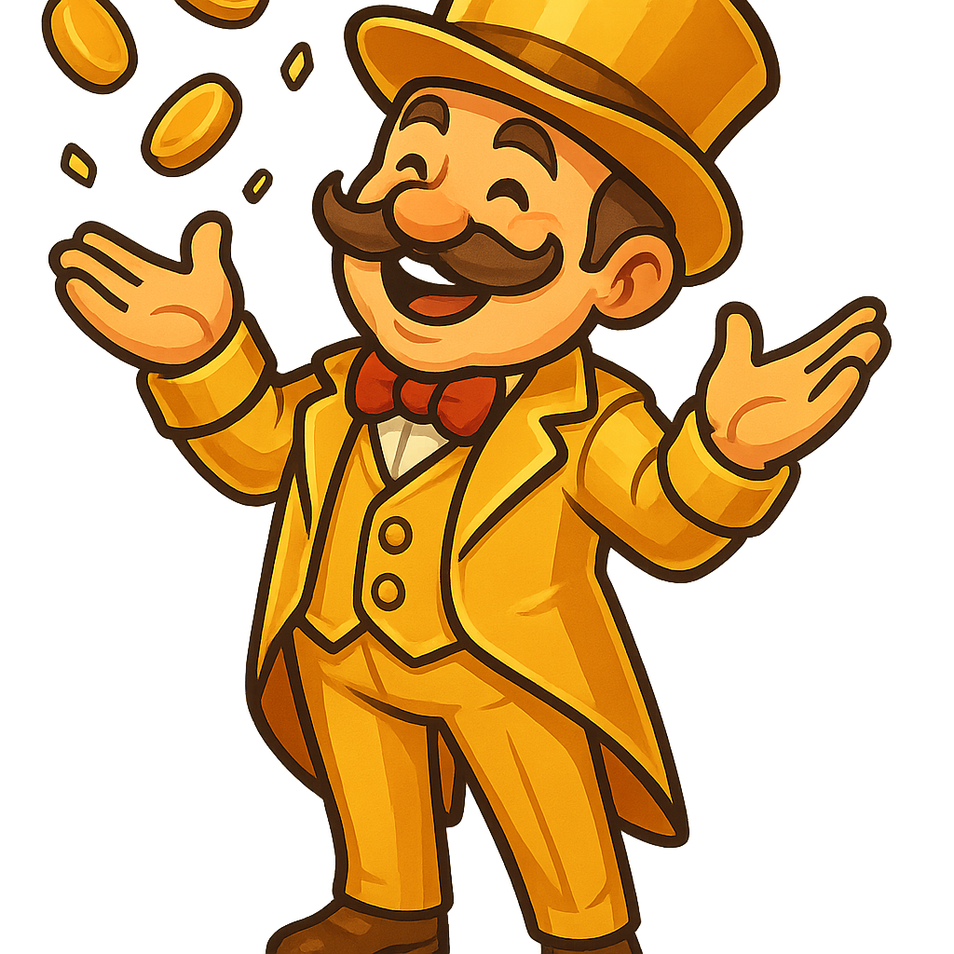
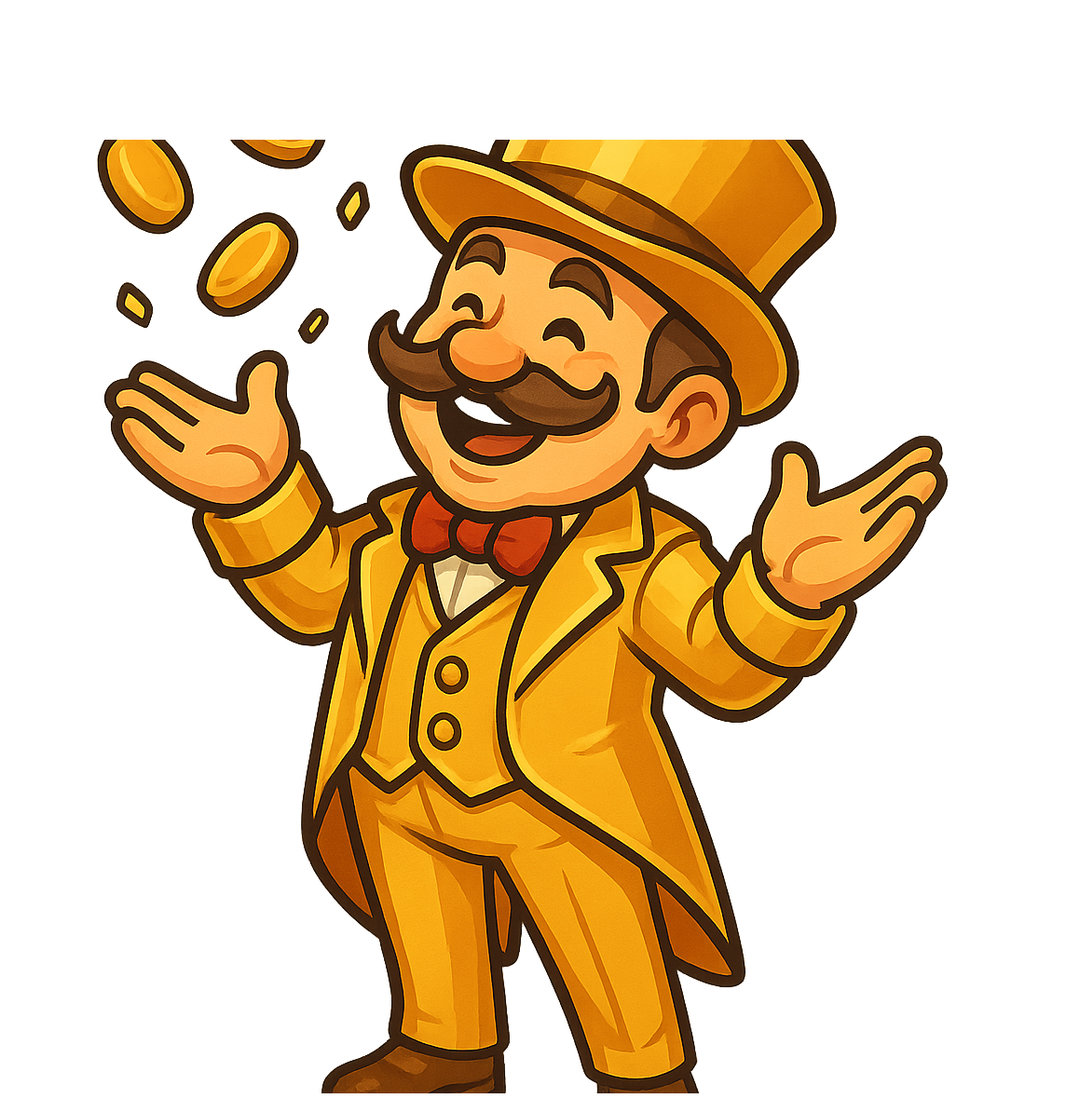
Sailing feedback batch: merchant clip, combo/cap, pet-on-10th, auto-scan, relic reveal
- Merchant sprite: padded the art with transparent headroom so his hat can never clip; bumped
  the on-screen size to compensate.
- Coin game: tuned coin values + combo (max 2x) so a great run lands ~150 naturally instead of
  showing 300 then clamping to 150; raised the safety cap to 200 so the score you see == earned.
- Pet: no longer tied to a "perfect" run (too easy). The exclusive elephant now unlocks on your
  10th meeting with the merchant (mig197 merchant_encounters counter), celebrated up front.
- Digging is fully automatic now: while you have scans (~3), a tap SCANS; once they're gone, a
  tap DIGS. No mode/button to select. (Tool buttons remain for now — tools-as-procs rework next.)
- On finishing a dig, the recap shows a mini-map of WHERE the relic was (dug vs missed) so you
  learn how the heat maps to the buried shape.

Claude-Session: https://claude.ai/code/session_01PcZ5ztkdGCXkPUtyGfLyLN

diff --git a/src/components/SailingClient.js b/src/components/SailingClient.js
@@ -187,7 +187,6 @@ export default function SailingClient({ initial, hero, pet }) {
     const [formUnlock, setFormUnlock] = useState(null); // the milestone form just unlocked (every 10 levels)
     const [inspectForm, setInspectForm] = useState(null); // a boat form being inspected (locked or not)
     const [selectedTool, setSelectedTool] = useState(null); // an area-clear dig tool armed to tap a tile
-    const [scanArmed, setScanArmed] = useState(false); // Dig is the default; arming Scan makes the NEXT tap a one-shot scan
     const [sensePing, setSensePing] = useState(null); // { r, c, k } — the tile currently rippling a scan pulse
     const [celebrate, setCelebrate] = useState(null); // "arrive" while the Land-ho banner shows
     const [chunk, setChunk] = useState(null); // { r, c, k } — the tile currently spraying rock chunks
@@ -407,12 +406,11 @@ export default function SailingClient({ initial, hero, pet }) {
         act("dig", { r, c });
     }, [act]);
 
-    // Scan a tile: fire a sonar ripple instantly (tactile), disarm the one-shot, then ask the server for its heat.
+    // Scan a tile: fire a sonar ripple instantly (tactile), then ask the server for its heat.
     const senseTile = useCallback((r, c) => {
         const k = (chunkId.current += 1);
         setSensePing({ r, c, k });
         setTimeout(() => setSensePing((p) => (p?.k === k ? null : p)), 600);
-        setScanArmed(false);
         act("sense", { r, c });
     }, [act]);
 
@@ -508,42 +506,40 @@ export default function SailingClient({ initial, hero, pet }) {
                             <span className="dig-stam" title="Digs remaining">⛏ {dig.stamina}/{dig.maxStamina}</span>
                         </div>
                         <div className="dig-stambar"><span style={{ width: `${Math.round((dig.stamina / Math.max(1, dig.maxStamina)) * 100)}%` }} /></div>
-                        {/* Actions — DIG is the default (just tap dirt). SCAN is a one-shot "feel it out" probe.
-                            Tools stay armed so you can keep clearing without re-selecting. */}
-                        <div className="dig-actions">
-                            <button type="button" className={`dig-scan-btn${scanArmed ? " is-armed" : ""}`}
-                                disabled={busy || (dig.senses ?? 0) <= 0 || scanArmed}
-                                onClick={() => { setScanArmed(true); setSelectedTool(null); }}>
-                                🔍 Scan <span className="dig-scan-n">{dig.senses ?? 0}</span>
-                            </button>
-                            {(dig.tools || []).map((t) => (
-                                <button key={t.id} type="button"
-                                    className={`dig-tool-btn${selectedTool?.id === t.id ? " is-armed" : ""}`}
-                                    disabled={busy || dig.stamina < 1}
-                                    onClick={() => { setSelectedTool(selectedTool?.id === t.id ? null : t); setScanArmed(false); }}
-                                    title={`${t.name}: clears ${t.cols}×${t.rows}${t.layers > 1 ? `, ${t.layers} layers` : ""} for ${t.stamina} stamina`}>
-                                    {t.emoji} {t.name} <span className="dig-tool-cost">{t.stamina}</span>
-                                </button>
-                            ))}
-                        </div>
+                        {/* Fully automatic: while you have scans left, a tap SCANS; once they're gone, a tap DIGS.
+                            Nothing to select. (Tool buttons remain for now; a tools-as-procs rework is coming.) */}
+                        {(dig.tools || []).length ? (
+                            <div className="dig-actions">
+                                {(dig.tools || []).map((t) => (
+                                    <button key={t.id} type="button"
+                                        className={`dig-tool-btn${selectedTool?.id === t.id ? " is-armed" : ""}`}
+                                        disabled={busy || dig.stamina < 1}
+                                        onClick={() => setSelectedTool(selectedTool?.id === t.id ? null : t)}
+                                        title={`${t.name}: clears ${t.cols}×${t.rows}${t.layers > 1 ? `, ${t.layers} layers` : ""} for ${t.stamina} stamina`}>
+                                        {t.emoji} {t.name} <span className="dig-tool-cost">{t.stamina}</span>
+                                    </button>
+                                ))}
+                            </div>
+                        ) : null}
                         <div className="dig-instruct">{selectedTool
                             ? <>💥 <b>{selectedTool.name}</b> armed — tap tiles to clear a {selectedTool.cols}×{selectedTool.rows} patch each. <button type="button" className="dig-tool-cancel" onClick={() => setSelectedTool(null)}>done</button></>
-                            : scanArmed
-                                ? <>🔍 <b>Tap a tile to scan it</b> — it&apos;ll tell you how close the relic is (🔥 HOT → 🧊 COLD). <button type="button" className="dig-tool-cancel" onClick={() => setScanArmed(false)}>cancel</button></>
-                                : <>⛏ <b>Tap dirt to dig.</b> Hit <b>🔍 Scan</b> to feel where the buried relic is, then dig it out.</>}</div>
+                            : (dig.senses ?? 0) > 0
+                                ? <>🔍 <b>Tap to scan</b> ({dig.senses} left) — feel how close the relic is (🔥 HOT → 🧊 COLD).</>
+                                : <>⛏ <b>Tap to dig it out.</b> Follow the heat — dig the HOT tiles to unearth the relic.</>}</div>
                         <div className="dig-grid" style={{ gridTemplateColumns: `repeat(${dig.cols}, 1fr)` }}>
                             {dig.tiles.flatMap((row, r) => row.map((t, c) => {
                                 const bottomed = t.depth <= 0;
-                                const disabled = busy || dig.status !== "active" || (selectedTool ? false : scanArmed ? (t.sense != null || (dig.senses ?? 0) <= 0) : bottomed);
+                                const willScan = !selectedTool && (dig.senses ?? 0) > 0 && !bottomed && t.sense == null; // auto-scan phase
+                                const disabled = busy || dig.status !== "active" || (selectedTool ? false : bottomed);
                                 return (
                                     <button
                                         key={`${r}-${c}`}
                                         type="button"
-                                        className={`dig-tile${t.dug ? " is-dug" : ""}${bottomed ? " is-bottom" : ""}${t.found ? " is-found" : ""}${selectedTool ? " is-toolarm" : ""}${scanArmed && !bottomed && t.sense == null ? " is-sensearm" : ""}${t.sense != null && !bottomed ? ` is-sensed heat-${t.sense}` : ""}`}
+                                        className={`dig-tile${t.dug ? " is-dug" : ""}${bottomed ? " is-bottom" : ""}${t.found ? " is-found" : ""}${selectedTool ? " is-toolarm" : ""}${willScan ? " is-sensearm" : ""}${t.sense != null && !bottomed ? ` is-sensed heat-${t.sense}` : ""}`}
                                         style={{ "--depth": t.depth, "--maxdepth": t.maxDepth || 3 }}
                                         disabled={disabled}
-                                        onClick={() => (selectedTool ? runToolAt(selectedTool, r, c) : scanArmed ? senseTile(r, c) : digTile(r, c))}
-                                        title={bottomed ? (t.found ? "Part of the relic!" : "Empty — nothing here") : t.sense != null ? `Scan: ${HEAT_WORD[t.sense]} — the relic is ${t.sense >= 3 ? "right near here" : t.sense === 2 ? "close" : t.sense === 1 ? "a ways off" : "far away"}` : scanArmed ? "Tap to scan this spot" : `${t.depth} layer${t.depth === 1 ? "" : "s"} of dirt — tap to dig`}
+                                        onClick={() => (selectedTool ? runToolAt(selectedTool, r, c) : willScan ? senseTile(r, c) : digTile(r, c))}
+                                        title={bottomed ? (t.found ? "Part of the relic!" : "Empty — nothing here") : t.sense != null ? `Scan: ${HEAT_WORD[t.sense]} — the relic is ${t.sense >= 3 ? "right near here" : t.sense === 2 ? "close" : t.sense === 1 ? "a ways off" : "far away"}` : willScan ? "Tap to scan this spot" : `${t.depth} layer${t.depth === 1 ? "" : "s"} of dirt — tap to dig`}
                                     >
                                         {t.found ? <span className="dig-found"><span className="dig-burst" aria-hidden="true">{Array.from({ length: 8 }, (_, i) => <i key={i} style={{ "--i": i }} />)}</span><FragmentIcon size={30} art={t.tier ? `/images/sailing/fragment-${t.tier}.png` : undefined} /></span>
                                             : bottomed ? <span className="dig-hole" aria-hidden="true" />
@@ -886,6 +882,20 @@ export default function SailingClient({ initial, hero, pet }) {
                         <p className="muted" style={{ marginTop: 0 }}>{result.won
                             ? `You uncovered ${result.earned} of ${result.buried} relic piece${result.buried === 1 ? "" : "s"}${result.bonus ? ` (+${result.bonus} lucky strike${result.bonus === 1 ? "" : "s"})` : ""}.`
                             : "Nothing but bare rock this time. Sail out and try a new island."}</p>
+                        {result.reveal ? (
+                            <div className="sail-reveal">
+                                <div className="sail-reveal-label">🗺 Where the {result.shape || "relic"} was buried:</div>
+                                <div className="sail-reveal-grid" style={{ gridTemplateColumns: `repeat(${result.reveal.cols}, 1fr)`, maxWidth: `${result.reveal.cols * 26}px` }}>
+                                    {Array.from({ length: result.reveal.rows * result.reveal.cols }, (_, i) => {
+                                        const rr = Math.floor(i / result.reveal.cols), cc = i % result.reveal.cols;
+                                        const inRelic = result.reveal.cells.some(([a, b]) => a === rr && b === cc);
+                                        const got = inRelic && result.reveal.dugCells.some(([a, b]) => a === rr && b === cc);
+                                        return <span key={i} className={`sail-reveal-cell${inRelic ? (got ? " is-got" : " is-missed") : ""}`} />;
+                                    })}
+                                </div>
+                                <div className="sail-reveal-key"><span className="is-got" /> you dug · <span className="is-missed" /> you missed</div>
+                            </div>
+                        ) : null}
                         <div className="sail-recap-rows">
                             {result.won && result.haul?.length ? result.haul.map((h) => (
                                 <div className="sail-recap-row" key={h.tier}>

diff --git a/src/lib/marketplace/sailing.js b/src/lib/marketplace/sailing.js
@@ -107,8 +107,8 @@ function pickWeighted(list) {
 // a coin-catch minigame for gold, a discounted exclusive shop, and a rare shot at his exclusive elephant pet.
 const MERCHANT_BASE_CHANCE = 1.0;    // ⚠ TEST OVERRIDE (was 0.05) — always land the Gold Merchant
 const MERCHANT_GOLD_FLOOR = 10;      // minimum coin-minigame payout (just for playing)
-const MERCHANT_GOLD_CEIL = 150;      // payout cap (trimmed from 300 — was a bit too rich)
-const MERCHANT_PET_CHANCE = 1.0;     // ⚠ TEST OVERRIDE (was 0.10) — 10% shot at the elephant pet on a PERFECT coin-catch run
+const MERCHANT_GOLD_CEIL = 200;      // safety cap only — the game's scoring is tuned to land ~150 on a great run
+const MERCHANT_PET_ENCOUNTERS = 10;  // the elephant pet unlocks on your 10th meeting with the Gold Merchant
 const MERCHANT_PET_ID = "elephant_spear";
 const MERCHANT_PET_RARITY = "legendary";
 // Elephant find bonus by EQUIPPED pet level (1..5): +1% → +5%.
@@ -146,12 +146,21 @@ async function rollMerchant(buyerId) {
             const c = CONSUMABLES[s.id] || {};
             return { id: s.id, name: c.name || s.id, emoji: c.emoji || "🧪", desc: c.desc || "", price: Math.max(1, Math.round(s.base * (1 - s.off))), off: Math.round(s.off * 100) };
         });
-        // The pet is NOT a free gift — it's a 10% drop on a PERFECT coin-catch run (see merchantMinigame).
+        // The pet is earned by MEETING the merchant MERCHANT_PET_ENCOUNTERS times (set below), not by the minigame.
         offer = { shop: stock, minigamePlayed: false, goldWon: 0, perfect: false, petGranted: null };
     }
     // Guard on merchant_json IS NULL so concurrent reads roll it exactly once.
     const rolled = await db.queryOne(`UPDATE mkt_sailing SET merchant_json = $2::jsonb, updated_at = NOW() WHERE buyer_id = $1 AND merchant_json IS NULL RETURNING buyer_id`, [buyerId, JSON.stringify(offer)]).catch(() => null);
-    if (rolled && !offer.none) await grantEventBadge(buyerId, "merchant_met").catch(() => {}); // "Gold Rush" — met the merchant
+    if (rolled && !offer.none) {
+        await grantEventBadge(buyerId, "merchant_met").catch(() => {}); // "Gold Rush" — met the merchant
+        // Count the encounter; the exclusive elephant pet unlocks on the MERCHANT_PET_ENCOUNTERS-th meeting.
+        const cnt = await db.queryOne(`UPDATE mkt_sailing SET merchant_encounters = merchant_encounters + 1 WHERE buyer_id = $1 RETURNING merchant_encounters`, [buyerId]).catch(() => null);
+        if ((cnt?.merchant_encounters || 0) === MERCHANT_PET_ENCOUNTERS) {
+            await db.query(`INSERT INTO mkt_cosmetic_unlock (buyer_id, category, ref) VALUES ($1, 'pet', $2) ON CONFLICT DO NOTHING`, [buyerId, MERCHANT_PET_ID]).catch(() => {});
+            // Flag it on this offer so the merchant screen celebrates the unlock right now.
+            await db.query(`UPDATE mkt_sailing SET merchant_json = merchant_json || jsonb_build_object('petGranted', $2::text, 'petMilestone', TRUE) WHERE buyer_id = $1`, [buyerId, MERCHANT_PET_ID]).catch(() => {});
+        }
+    }
 }
 
 // Dig board.
@@ -315,7 +324,7 @@ function digTreasureCount(tier, fortuneBuried) {                                
 // Scan charges (the detector) — deliberately FEW ("a couple"), so a scan is a precious "feel it out" moment,
 // not a solve-the-grid tool. Luck (find_level) grants the odd extra. Tune freely.
 function digSenseBudget(tier, treasures, luckLevel = 0) {
-    return Math.max(2, 2 + Math.floor(tier / 2) + Math.floor(Math.max(0, luckLevel) / 4));
+    return 3 + Math.floor(Math.max(0, luckLevel) / 4); // ~3 scans ("feel it out"), a few more with Luck
 }
 // A scan's HEAT for a tile: how CLOSE the nearest treasure is (Chebyshev distance) → 3 hot / 2 warm / 1 cool
 // / 0 cold. Feeling-based, not a neighbour-count — "am I close?" reads instantly.
@@ -732,20 +741,20 @@ export async function merchantMinigame(buyerId, collected, perfectFlag) {
     if (!m || m.none) return { ok: false, error: "no_merchant", ...(await getSailingState(buyerId)) };
     const gold = Math.max(MERCHANT_GOLD_FLOOR, Math.min(MERCHANT_GOLD_CEIL, Math.round(Number(collected) || 0)));
     const perfect = Boolean(perfectFlag);
-    const petGranted = perfect && Math.random() < MERCHANT_PET_CHANCE ? MERCHANT_PET_ID : null;
+    // The pet is NOT tied to the minigame anymore (it unlocks on the 10th encounter, in rollMerchant). A perfect
+    // run just earns the badge + the gold. Preserve any petGranted flag the offer already carries (10th meeting).
     const won = await db.queryOne(
         `UPDATE mkt_sailing
-            SET merchant_json = merchant_json || jsonb_build_object('minigamePlayed', TRUE, 'goldWon', $2::int, 'perfect', $3::boolean, 'petGranted', $4::text),
+            SET merchant_json = merchant_json || jsonb_build_object('minigamePlayed', TRUE, 'goldWon', $2::int, 'perfect', $3::boolean),
                 updated_at = NOW()
           WHERE buyer_id = $1 AND merchant_json IS NOT NULL AND (merchant_json->>'minigamePlayed')::boolean IS NOT TRUE
           RETURNING buyer_id`,
-        [buyerId, gold, perfect, petGranted]
+        [buyerId, gold, perfect]
     ).catch(() => null);
     if (!won) return { ok: false, error: "already_played", ...(await getSailingState(buyerId)) };
     await db.query(`UPDATE mkt_buyer SET gold = gold + $2, updated_at = NOW() WHERE id = $1`, [buyerId, gold]).catch(() => {});
     if (perfect) await grantEventBadge(buyerId, "merchant_perfect").catch(() => {}); // "Coin Virtuoso"
-    if (petGranted) await db.query(`INSERT INTO mkt_cosmetic_unlock (buyer_id, category, ref) VALUES ($1, 'pet', $2) ON CONFLICT DO NOTHING`, [buyerId, petGranted]).catch(() => {});
-    return { ok: true, goldWon: gold, perfect, petGranted, ...(await getSailingState(buyerId)) };
+    return { ok: true, goldWon: gold, perfect, ...(await getSailingState(buyerId)) };
 }
 
 // Buy one of the merchant's discounted exclusive consumables. Price comes from HIS rolled offer (not the
@@ -970,7 +979,9 @@ async function finishDig(buyerId, board) {
         return { tier, n, name: (c.label || tier).replace(" Chest", ""), emoji: c.emoji || "🎁", color: c.color || "#b08a52", art: fragmentArt(tier) };
     }).sort((a, b) => CHEST_ORDER.indexOf(b.tier) - CHEST_ORDER.indexOf(a.tier));
     const fullyUnearthed = board.frag.every(([fr, fc]) => board.depth[fr][fc] === 0);
-    return { ok: true, result: { won, earned, buried: board.frag.length, bonus: board.bonus || 0, haul, shape: board.shape || null, fullArtifact: fullyUnearthed }, ...state };
+    // Reveal where the relic actually was, so players learn how scanning maps to the buried shape.
+    const reveal = { rows: board.rows, cols: board.cols, cells: board.frag, dugCells: board.frag.filter(([fr, fc]) => board.depth[fr][fc] === 0) };
+    return { ok: true, result: { won, earned, buried: board.frag.length, bonus: board.bonus || 0, haul, shape: board.shape || null, fullArtifact: fullyUnearthed, reveal }, ...state };
 }
 async function persistDig(buyerId, board) {
     await db.query(`UPDATE mkt_sailing SET dig_state = $2, updated_at = NOW() WHERE buyer_id = $1`, [buyerId, JSON.stringify(board)]).catch(() => {});

diff --git a/src/components/MerchantScene.js b/src/components/MerchantScene.js
@@ -127,7 +127,7 @@ export default function MerchantScene({ merchant, gold = 0, floor = 20, ceil = 3
                 if (e.type === "gold") {
                     s.combo += 1; if (s.combo > s.bestCombo) s.bestCombo = s.combo;
                     const mult = comboMult(s.combo);
-                    const amt = Math.round((5 + Math.floor(Math.random() * 11)) * mult);
+                    const amt = Math.round((2 + Math.floor(Math.random() * 5)) * mult); // tuned so a great run lands ~150, not 300
                     s.score += amt;
                     s.floaters.push({ id: (s.fid += 1), x: e.x, y: catchY, txt: `+${amt}`, kind: mult > 1 ? "big" : "gold", born: now });
                     return false;
@@ -211,7 +211,7 @@ export default function MerchantScene({ merchant, gold = 0, floor = 20, ceil = 3
                         {/* eslint-disable-next-line @next/next/no-img-element */}
                         <img className="mg-tosser" src={MERCHANT_ART} alt="" />
                         {render.combo >= 3 ? (
-                            <div className={`mg-combo${render.mult >= 2.5 ? " is-hot" : ""}`}>{render.combo}× combo · <b>{render.mult}×</b> gold</div>
+                            <div className={`mg-combo${render.mult >= 1.75 ? " is-hot" : ""}`}>{render.combo}× combo · <b>{render.mult}×</b> gold</div>
                         ) : null}
                         {render.entities.map((e) => (
                             <span key={e.id} className={e.type === "gold" ? "mg-gold" : "mg-brick"} style={{ left: `${e.x * 100}%`, top: `${e.y}px` }} />
@@ -248,9 +248,12 @@ export default function MerchantScene({ merchant, gold = 0, floor = 20, ceil = 3
                             <button type="button" className="sail-cta sail-cta-wind" onClick={start}>🪙 Catch the coin toss!</button>
                         )}
 
-                        {/* A compact persistent note once the recap's been dismissed. */}
+                        {/* 10th-meeting milestone: the exclusive elephant pet is yours (not tied to the minigame). */}
+                        {merchant.petGranted ? (
+                            <div className="merchant-won" style={{ borderColor: "rgba(124,201,255,0.5)", color: "#bfe3ff" }}>🐘 <strong>10th meeting!</strong> The Merchant&apos;s Guard is yours — equip it to find him more often.</div>
+                        ) : null}
                         {played && merchant.perfect ? (
-                            <div className="merchant-won" style={{ borderColor: "rgba(124,201,255,0.5)", color: "#bfe3ff" }}>✨ Perfect run!{merchant.petGranted ? " 🐘 You won the Merchant's Guard!" : ""}</div>
+                            <div className="merchant-won">✨ Perfect run — flawless coin catch!</div>
                         ) : null}
 
                         <h4 style={{ margin: "14px 0 6px" }}>🛍 Exclusive wares <span className="muted" style={{ fontWeight: 600, fontSize: "0.78rem" }}>· you own 🪙 {gold.toLocaleString()}</span></h4>
@@ -284,23 +287,19 @@ export default function MerchantScene({ merchant, gold = 0, floor = 20, ceil = 3
                             <div><span>💥 Hits taken</span><strong>{recap.hits}</strong></div>
                             <div><span>💨 Coins missed</span><strong>{recap.missed}</strong></div>
                         </div>
-                        {recap.perfect ? (
-                            !merchant.minigamePlayed ? (
-                                <p className="muted" style={{ margin: "4px 0 0" }}>Tallying your haul…</p>
-                            ) : merchant.petGranted ? (
-                                <div className="merchant-pet mg-recap-pet">
-                                    {/* eslint-disable-next-line @next/next/no-img-element */}
-                                    <img src={ELEPHANT_ART} alt="Merchant's Guard" />
-                                    <div>
-                                        <strong>🐘 The Merchant&apos;s Guard is yours!</strong>
-                                        <p className="muted" style={{ margin: "2px 0 0", fontSize: "0.8rem" }}>His exclusive elephant — equip it to find him more often.</p>
-                                    </div>
+                        {merchant.petGranted ? (
+                            <div className="merchant-pet mg-recap-pet">
+                                {/* eslint-disable-next-line @next/next/no-img-element */}
+                                <img src={ELEPHANT_ART} alt="Merchant's Guard" />
+                                <div>
+                                    <strong>🐘 The Merchant&apos;s Guard is yours!</strong>
+                                    <p className="muted" style={{ margin: "2px 0 0", fontSize: "0.8rem" }}>Your 10th meeting with the merchant — his exclusive elephant. Equip it to find him more often.</p>
                                 </div>
-                            ) : (
-                                <p className="muted" style={{ margin: "6px 0 0", fontSize: "0.82rem" }}>Flawless! No pet this time — a perfect run is a 🐘 <strong>10%</strong> shot at his elephant.</p>
-                            )
+                            </div>
+                        ) : recap.perfect ? (
+                            <p className="muted" style={{ margin: "6px 0 0", fontSize: "0.82rem" }}>✨ Flawless run! Meet the merchant <strong>10 times</strong> to earn his exclusive elephant pet.</p>
                         ) : (
-                            <p className="muted" style={{ margin: "6px 0 0", fontSize: "0.82rem" }}>Catch <strong>every</strong> coin AND dodge <strong>every</strong> brick for a shot at his exclusive pet.</p>
+                            <p className="muted" style={{ margin: "6px 0 0", fontSize: "0.82rem" }}>Meet the merchant <strong>10 times</strong> to earn his exclusive elephant pet.</p>
                         )}
                         <button type="button" className="btn-gold mg-recap-btn" disabled={!recapReady} onClick={() => setRecap(null)}>
                             {recapReady ? "Continue" : "…"}
@@ -319,9 +318,9 @@ function hitClass(hitAt) {
 
 // Combo multiplier: catching coins in a row without a miss/hit ramps the payout, so skilled play pays more.
 function comboMult(combo) {
-    if (combo >= 15) return 3;
-    if (combo >= 10) return 2.5;
-    if (combo >= 6) return 2;
-    if (combo >= 3) return 1.5;
+    if (combo >= 15) return 2;
+    if (combo >= 10) return 1.75;
+    if (combo >= 6) return 1.5;
+    if (combo >= 3) return 1.25;
     return 1;
 }

diff --git a/src/app/globals.css b/src/app/globals.css
@@ -10751,12 +10751,12 @@ body:has(.dm-screen) main.content { padding-bottom: 0; }
 .merchant-stage.is-compact { height: clamp(130px, 32vw, 170px); }
 /* Merchant himself — the art fills its canvas edge-to-edge (hat at the very top pixel), so we scale to fit
    with clear headroom and DON'T bottom-anchor tight, or the hat clips. object-fit contain = never cropped. */
-.merchant-figure { position: absolute; left: 50%; bottom: 4%; height: 86%; width: 70%; max-width: 260px; z-index: 3;
+.merchant-figure { position: absolute; left: 50%; bottom: 2%; height: 98%; width: 80%; max-width: 300px; z-index: 3;
     object-fit: contain; object-position: bottom; filter: drop-shadow(0 10px 12px rgba(0,0,0,0.45));
     animation: merchantFloat 2.8s ease-in-out infinite; }
 @keyframes merchantFloat { 0%,100% { transform: translateX(-50%) translateY(0); } 50% { transform: translateX(-50%) translateY(-5px); } }
 @keyframes merchantBob { 0%,100% { transform: translateY(0) rotate(-1deg); } 50% { transform: translateY(-5px) rotate(1deg); } } /* used by .sail-enc-art (encounter foe bob) */
-.merchant-stage.is-compact .merchant-figure { height: 92%; bottom: 3%; }
+.merchant-stage.is-compact .merchant-figure { height: 104%; bottom: 1%; }
 /* Coins flying everywhere — a continuous spinning, drifting shower across the stage. */
 .merchant-coinfall { position: absolute; inset: 0; z-index: 2; pointer-events: none; overflow: hidden; }
 .merchant-coin { position: absolute; top: 0; border-radius: 50%; opacity: 0;
@@ -10783,7 +10783,7 @@ body:has(.dm-screen) main.content { padding-bottom: 0; }
 .mg-hud { position: absolute; top: 8px; left: 10px; right: 10px; z-index: 5; display: flex; justify-content: space-between; font-weight: 800; font-size: 0.9rem; color: #fff; text-shadow: 0 1px 4px #000; pointer-events: none; }
 .mg-hud-score { color: #ffe08a; }
 /* Merchant tucked in the top-left corner, FULLY visible (never cropped), flinging coins into play. */
-.mg-tosser { position: absolute; top: 4px; left: 4px; height: 30%; width: auto; z-index: 2; object-fit: contain; object-position: top left;
+.mg-tosser { position: absolute; top: -2%; left: 2px; height: 38%; width: auto; z-index: 2; object-fit: contain; object-position: top left;
     opacity: 0.96; filter: drop-shadow(0 6px 10px rgba(0,0,0,0.5)); transform-origin: bottom center; animation: mgToss 1.6s ease-in-out infinite; }
 @keyframes mgToss { 0%,100% { transform: rotate(-2deg); } 50% { transform: rotate(2deg); } }
 /* Combo badge. */
@@ -11330,6 +11330,17 @@ body:has(.dm-screen) main.content { padding-bottom: 0; }
 @keyframes digScanPulse { 0%,100% { box-shadow: 0 3px 12px rgba(90,190,255,0.45); } 50% { box-shadow: 0 3px 20px rgba(120,215,255,0.9); } }
 .dig-scan-n { display: inline-grid; place-items: center; min-width: 20px; height: 20px; padding: 0 5px; border-radius: 999px;
     background: rgba(2,18,31,0.35); color: #eaf7ff; font-size: 0.78rem; }
+/* Post-dig REVEAL — a mini-map of where the relic actually was, so you learn how scanning maps to it. */
+.sail-reveal { margin: 10px auto 4px; text-align: center; }
+.sail-reveal-label { font-weight: 800; font-size: 0.82rem; color: #ffe9c4; margin-bottom: 6px; }
+.sail-reveal-grid { display: grid; gap: 3px; margin: 0 auto; }
+.sail-reveal-cell { aspect-ratio: 1; border-radius: 4px; background: rgba(255,255,255,0.06); box-shadow: inset 0 0 0 1px rgba(255,255,255,0.06); }
+.sail-reveal-cell.is-got { background: linear-gradient(160deg, #ffe08a, #d9a636); box-shadow: 0 0 8px rgba(255,200,80,0.6); }
+.sail-reveal-cell.is-missed { background: rgba(255,215,94,0.22); box-shadow: inset 0 0 0 1px rgba(255,215,94,0.5); }
+.sail-reveal-key { margin-top: 6px; font-size: 0.7rem; color: #b9c6d6; display: flex; gap: 6px; align-items: center; justify-content: center; }
+.sail-reveal-key span { display: inline-block; width: 12px; height: 12px; border-radius: 3px; }
+.sail-reveal-key .is-got { background: linear-gradient(160deg, #ffe08a, #d9a636); }
+.sail-reveal-key .is-missed { background: rgba(255,215,94,0.22); box-shadow: inset 0 0 0 1px rgba(255,215,94,0.5); }
 /* Sonar PING — a probe ripple that bursts from a tile when you Sense it. */
 .dig-ping { position: absolute; inset: 0; display: grid; place-items: center; pointer-events: none; z-index: 5; }
 .dig-ping i { position: absolute; width: 30%; height: 30%; border-radius: 50%; border: 2px solid rgba(130,215,255,0.95);
